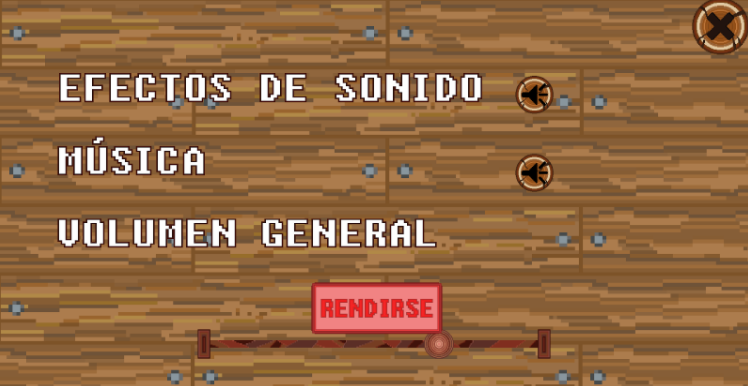
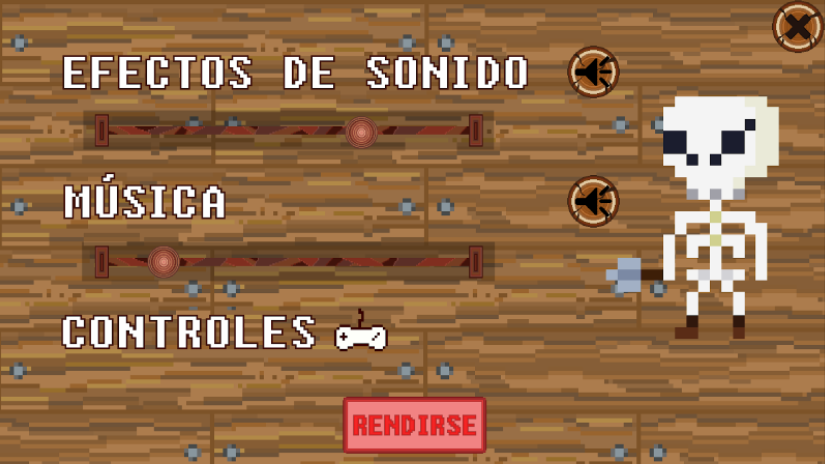
update readme.md

diff --git a/README.md b/README.md
@@ -14,7 +14,7 @@ Documento de diseño de juego
 
 | **Géneros:** Turn-Based-Strategy | **Modos:** Multijugador online y local |
 | --- | --- |
-| **Público objetivo:** Dirigido a personas de entre 13 a 40 años | **Plataformas:** Windows x64 |
+| **Público objetivo:** ![LOGO](./webAssets/images/pegi7.png) | **Plataformas:** Windows x64 |
 
 **Descripción:**
 Descripción: PaintLess es un juego multijugador de estrategia por turnos en el cual los jugadores disponen de un amplio abanico de personajes con distintas habilidades de los cuales deben seleccionar seis. El juego se desarrolla en un tablero 8x10 donde los jugadores deben mover a sus diferentes personajes para cubrir la mayor área de juego posible. Esto es debido a que según los personajes se mueven, colorean las casillas por las que se han desplazado. El ganador será aquel que pasado un número determinado de turnos, tenga cubierta la mayor zona del mapa coloreada.
@@ -26,18 +26,22 @@ Descripción: PaintLess es un juego multijugador de estrategia por turnos en el 
 ### [Informe Testing/QA](https://docs.google.com/document/d/1SECKg8W8UhA9YVVsTymynRhNhotF5HouHmP8w92xcbc/edit?usp=sharing)
 
 # Menú
+## Menú principal
 ![LOGO](./webAssets/images/menu.png)
-
 El esquema del menú principal es simple, con una disposición vertical y centrada de diferentes botones, cada uno con su respectiva función:
 - Botón para  entrar al modo multijugador: Permite o bien crear un lobby para invitar a otras personas a través de un código o bien unirse a otro jugador introduciendo uno.
 - Local: Permite elegir al jugador el número de jugadores, y jugar con otros jugadores usando el mismo equipo.
 - Opciones: Permite modificar el volumen.
-![LOGO](./webAssets/images/opciones.png)
 - Salir: Cierra el juego.
- 
- Antes de comenzar la partida, cada jugador debe elegir 6 personajes distintos de entre todos los distintos personajes para conformar su mazo. Este menú consta de 3 botones superiores los cuales permitirán al usuario separar a los personajes por tipos de habilidades y así ayudarle a formar su mazo. Cuando se pulse con el botón derecho sobre un botón de personaje, también se mostrará una tarjeta informativa con una pequeña descripción de las habilidades del personaje y de su lore.
+![LOGO](./webAssets/images/opciones.png)
+## Pantalla de controles
+ ![LOGO](./webAssets/images/controles.png)
+ Aparecen en un recuadro azul las funcionalidades del clic izquierdo y en un recuadro naranja las funcionalidades del clic derecho.
+## Selección de personajes
 ![LOGO](./webAssets/images/seleccionpersonajes.png)
- 
+ Antes de comenzar la partida, cada jugador debe elegir 6 personajes distintos de entre todos los distintos personajes para conformar su mazo. Este menú consta de 3 botones superiores los cuales permitirán al usuario separar a los personajes por tipos de habilidades y así ayudarle a formar su mazo. Cuando se pulse con el botón derecho sobre un botón de personaje, también se mostrará una tarjeta informativa con una pequeña descripción de las habilidades del personaje y de su lore.
+ ![LOGO](./webAssets/images/infocarta.png)
+## Menú de opciones (in-game)
 Durante la partida, el jugador puede entrar en un Menú de ajustes. Dicho menú es una extensión del menú de ajustes inicial, al que se le suma un botón de rendirse para terminar la partida si así lo desea el usuario.
 ![LOGO](./webAssets/images/pausa.png)
 
